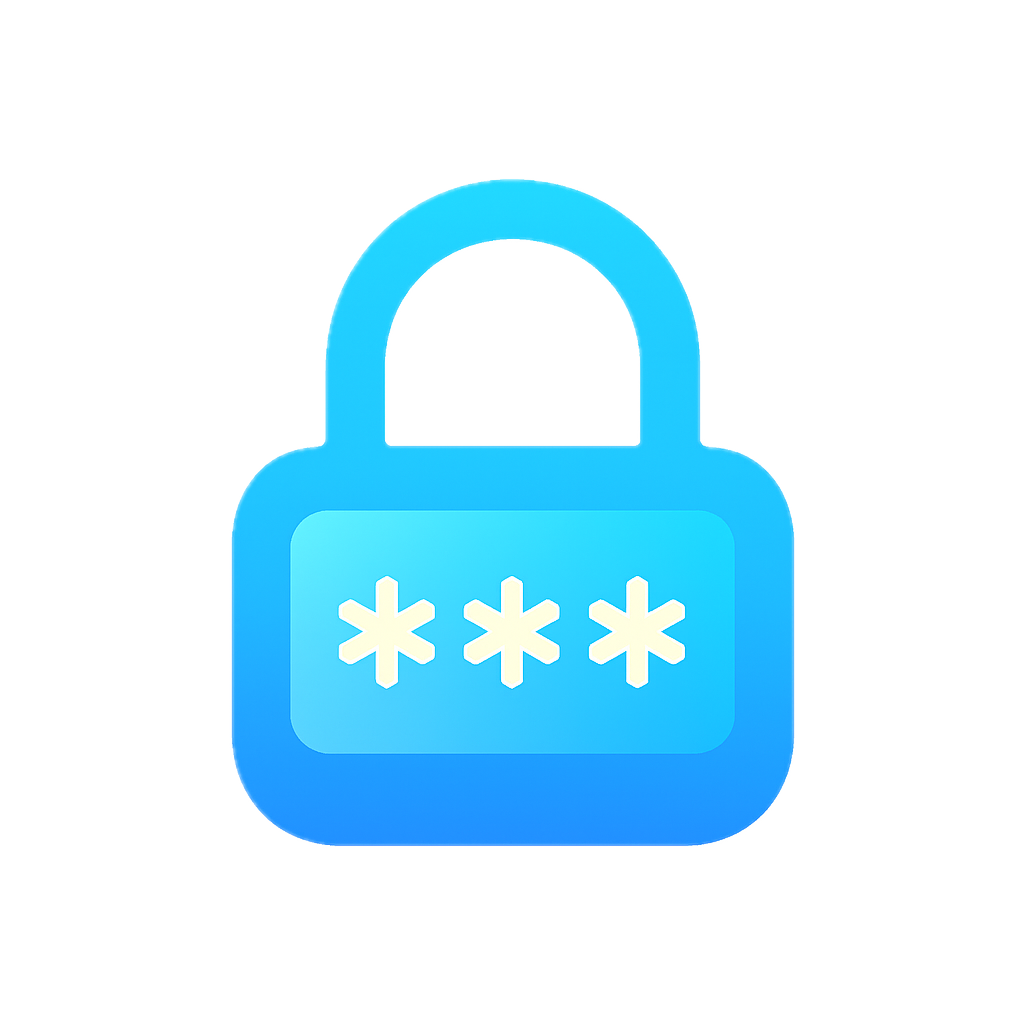
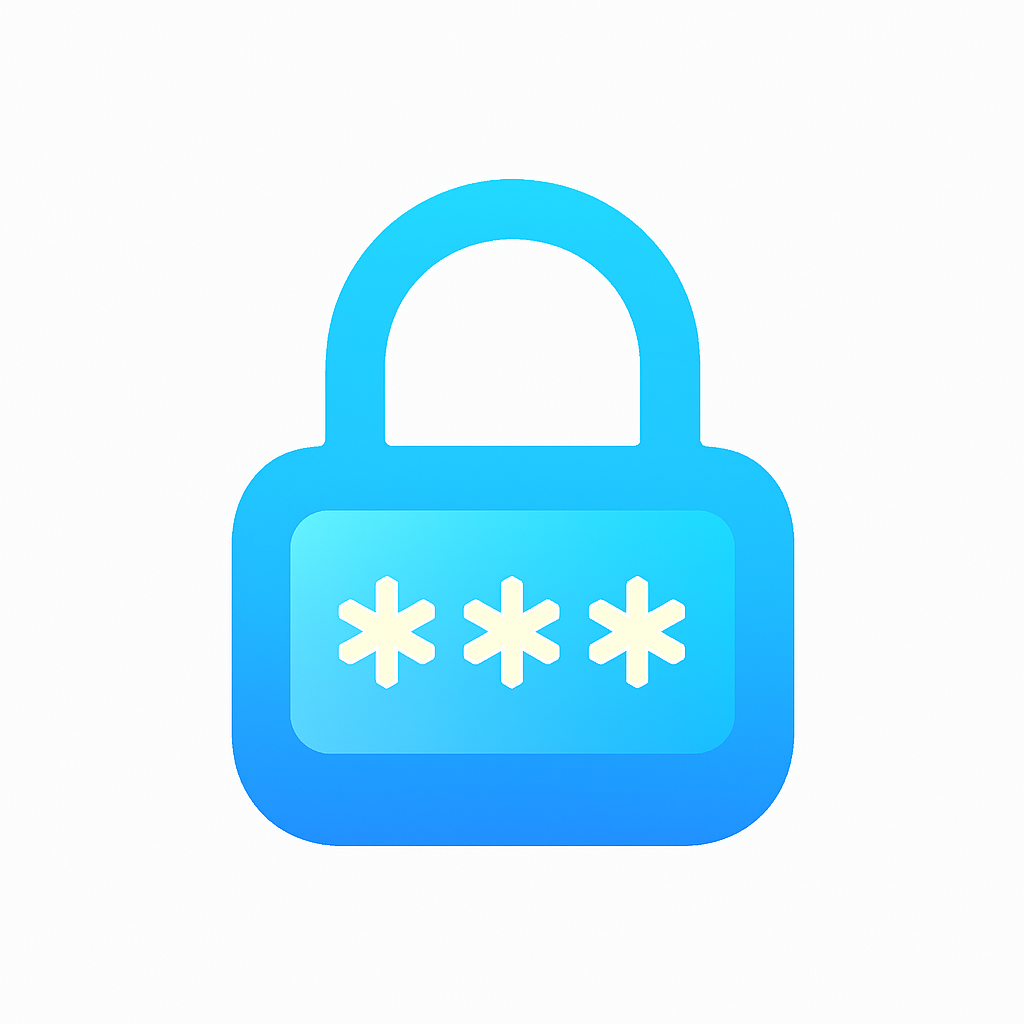
update repo

diff --git a/bundle-ZQP36VTA.js b/bundle-ZQP36VTA.js
@@ -1,0 +1,1 @@
[1 lines of base64/hex data omitted]

diff --git a/index.html b/index.html
@@ -25,6 +25,6 @@
   <body>
     <div id="root"></div>
 
-    <script src="./bundle-DFQN2RW2.js" type="module"></script>
+    <script src="./bundle-ZQP36VTA.js" type="module"></script>
   </body>
 </html>
